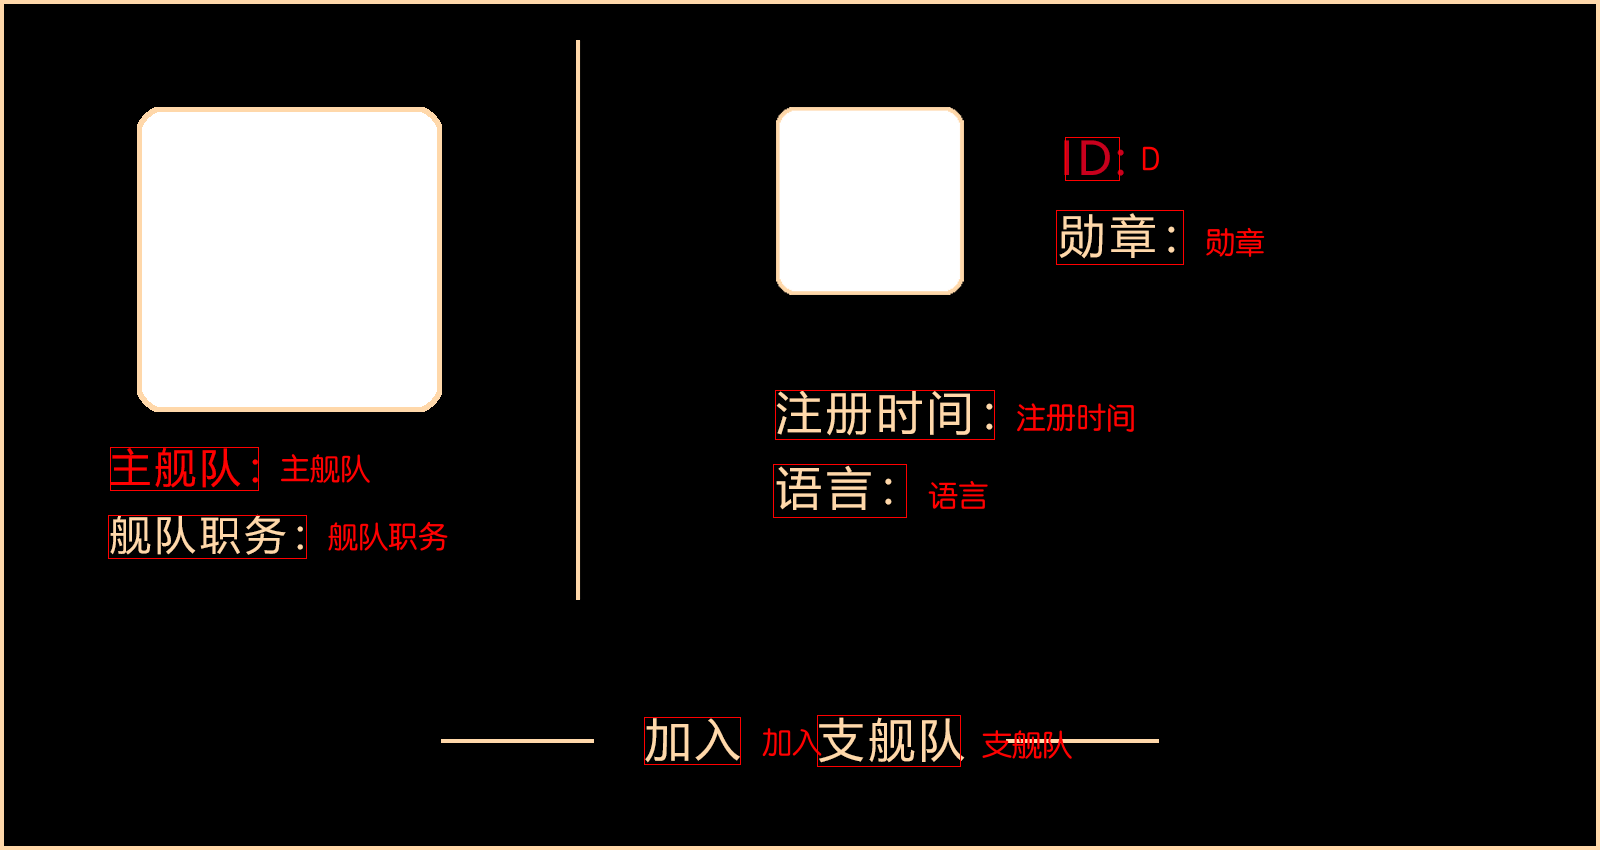
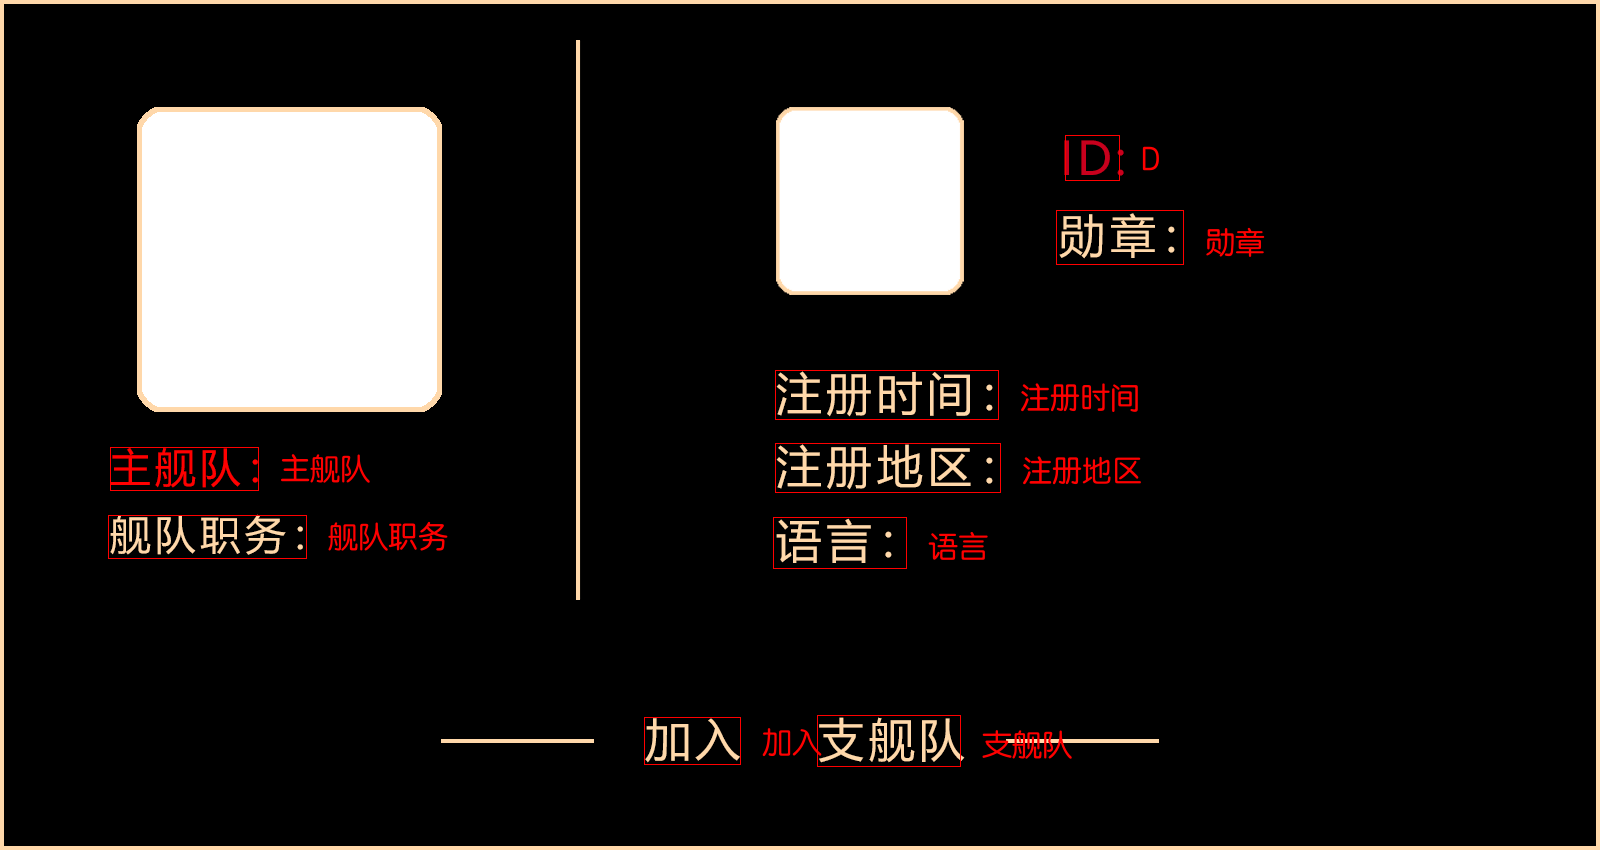
@danty 加入舰队数量及地区

Changed region(s): [[0.4688, 0.4282, 0.7188, 0.6729]]

diff --git a/my_project/common.py b/my_project/common.py
@@ -98,13 +98,16 @@ class GetValue():
         :return:
         """
         res = Request.get_html(f"https://robertsspaceindustries.com/citizens/{self.name}")
+        res_organizations = Request.get_html(f"https://robertsspaceindustries.com/citizens/{self.name}/organizations")
         if "404" not in res:
             _element = etree.HTML(res)
+            _element_org = etree.HTML(res_organizations)
             text = _element.xpath('//*[@class="inner clearfix"]/*[@class="info"]//p//text()')
             tex1 = _element.xpath("//*[@class='left-col']//text()")
             image_ass = _element.xpath("//*[@class='thumb']/img/@src")[0]
             image_medal = _element.xpath('//*[@class="icon"]/img/@src')[0]
             image_user = _element.xpath('//*[@class="thumb"]/a/img/@src')[0]
+            image_ass_num = len(_element_org.xpath('//*[@class="profile-content orgs-content clearfix"]/div'))
             list = text + tex1
             text = [x.strip() for x in list if x.strip() != '']
             text.insert(0, "id")
@@ -118,8 +121,9 @@ class GetValue():
                     key.append(text[i])
                 else:
                     value.append(text[i])
-
+            #加入舰队数量
             get_dict = dict(zip(key, value))
+            get_dict["fleet_quantity"] = str(image_ass_num)
             get_dict["ass_image_path"] = "https://robertsspaceindustries.com/" + image_ass
             get_dict["image_medal"] = image_medal
             get_dict["user_image_path"] = "https://robertsspaceindustries.com/" + image_user

diff --git a/my_project/ptojectAPI.py b/my_project/ptojectAPI.py
@@ -8,7 +8,6 @@ from my_project.common import IniFileEditor, MakePhotos, GetValue, Request
 class MakePhoto:
     def __init__(self):
         self.config = json.loads(IniFileEditor().read_ini_file())
-        print(os.path)
         self.back_ground_image = Image.open(self.config["card"]["background"])
         self.template_image_name = self.config["card"]["background"].replace(".png", "_template.png")
         self.template_image = Image.open(self.template_image_name)

diff --git a/my_project/main.py b/my_project/main.py
@@ -79,3 +79,4 @@ def set_card_template():
 if __name__ == '__main__':
     api.run(port=8888, host='0.0.0.0')
     # print(IniFileEditor().))
+
